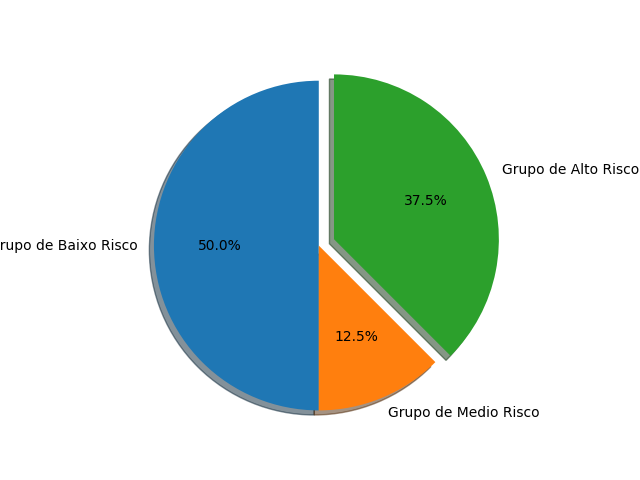
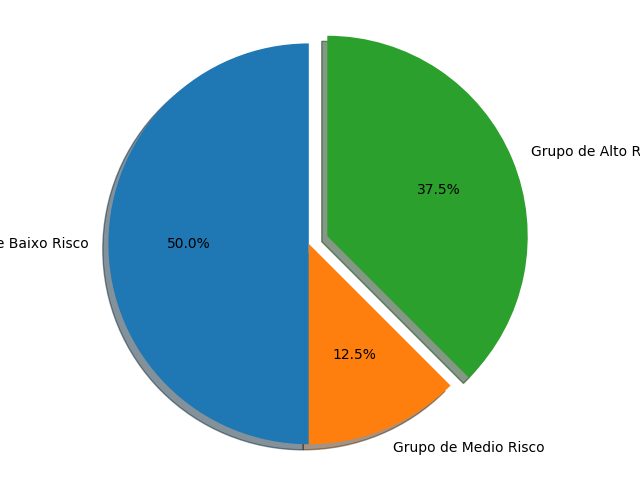
Image view to show thumbnail in flask-admin

Changed region(s): [[0.0, 0.0625, 1.0, 0.9375], [0.625, 0.375, 0.7188, 0.4375]]

diff --git a/testeimagens.py b/testeimagens.py
@@ -1,0 +1,111 @@
+
+import os
+from flask import Flask, url_for, request, jsonify
+from flask.ext.admin import Admin
+from flask_admin.contrib.sqla import ModelView
+from flask_admin import form
+from flask.ext.sqlalchemy import SQLAlchemy
+from jinja2 import Markup
+
+basedir = os.path.abspath(os.path.dirname(__file__))
+file_path = os.path.join(basedir, 'static')
+database_path = os.path.join(basedir, 'data-dev.sqlite')
+
+app = Flask(__name__, static_folder='static')
+app.config['SECRET_KEY'] = 'my secret key'
+app.config['SQLALCHEMY_DATABASE_URI'] = 'postgresql://postgres:postgres@localhost/postgres'
+
+db = SQLAlchemy(app)
+admin = Admin(app)
+
+
+class User(db.Model):
+    id = db.Column(db.Integer, primary_key=True)
+    username = db.Column(db.String(64), unique=True)
+    image_id = db.Column(db.Integer, db.ForeignKey('image.id'))
+    image = db.relationship('Image')
+
+
+class Image(db.Model):
+    id = db.Column(db.Integer, primary_key=True)
+    name = db.Column(db.String(128))
+    path = db.Column(db.String, unique=True)
+
+    def __repr__(self):
+        return self.name
+
+
+class UserView(ModelView):
+    def _list_thumbnail(view, context, model, name):
+        if not model.image or not model.image.path:
+            return ''
+
+        return Markup(
+            '<img src="%s">' %
+            url_for('static',
+                    filename=form.thumbgen_filename(model.image.path))
+        )
+
+    column_formatters = {
+        'image': _list_thumbnail
+    }
+
+    edit_template = 'edit_user.html'
+
+
+class ImageView(ModelView):
+    def _list_thumbnail(view, context, model, name):
+        if not model.path:
+            return ''
+
+        return Markup(
+            '<img src="%s">' %
+            url_for('static',
+                    filename=form.thumbgen_filename(model.path))
+        )
+
+    column_formatters = {
+        'path': _list_thumbnail
+    }
+
+    form_extra_fields = {
+        'path': form.ImageUploadField(
+            'Image', base_path=file_path, thumbnail_size=(100, 100, True))
+    }
+
+
+admin.add_view(UserView(User, db.session))
+admin.add_view(ImageView(Image, db.session))
+
+
+@app.route('/')
+def index():
+    return 'Hello World'
+
+
+@app.route('/_image-url')
+def _get_image_url():
+    img_id = request.args.get('img_id')
+    img = Image.query.get(img_id)
+    if img is None:
+        response = jsonify(status='not found')
+        return response
+    return jsonify(img_path=img.path, status='ok')
+
+
+def build_sample_db():
+    db.drop_all()
+    db.create_all()
+
+    usernames = ['oneuser', 'anotheruser']
+    for u in usernames:
+        user = User()
+        user.username = u
+        db.session.add(user)
+
+    db.session.commit()
+
+
+if __name__ == '__main__':
+    build_sample_db()
+    app.run(debug=True)

diff --git a/apiserver.py b/apiserver.py
@@ -26,8 +26,14 @@ from flask_admin.contrib.fileadmin import FileAdmin
 from flask_admin import BaseView, expose
 from jinja2 import Markup
 from flask import url_for
+from flask_admin import form
+import os
+from dbmodel import Image
 
-usuario = "Doidoteste"
+basedir = os.path.abspath(os.path.dirname(__file__))
+file_path = os.path.join(basedir, 'static')
+
+
 
 class LoginForm(FlaskForm):
 	username = StringField('username', validators=[InputRequired(), Length(min=4, max=15)])
@@ -71,6 +77,40 @@ def get_machine_graph():
 
 
 
+class ImageView(ModelView):
+    def _list_thumbnail(view, context, model, name):
+        if not model.path:
+            return ''
+
+        return Markup(
+            '<img src="%s">' %
+            url_for('static',
+                    filename=form.thumbgen_filename(model.path))
+        )
+
+    column_formatters = {
+        'path': _list_thumbnail
+    }
+
+    form_extra_fields = {
+        'path': form.ImageUploadField(
+            'Image', base_path=file_path, thumbnail_size=(100, 100, True))
+    }
+
+admin.add_view(ImageView(Image, session))
+
+
+@app.route('/_image-url')
+def _get_image_url():
+    img_id = request.args.get('img_id')
+    img = Image.query.get(img_id)
+    if img is None:
+        response = jsonify(status='not found')
+        return response
+    return jsonify(img_path=img.path, status='ok')
+
+
+
 @app.teardown_request
 def app_teardown(response_or_exc):
     # Assuming that `session` is your scoped session 
@@ -103,7 +143,6 @@ admin.add_view(MyModelView(Machine, session,editable_columns=['ip', 'nome', 'com
 admin.add_view(MyModelView(Compliance_attr, session))
 admin.add_view(MyModelView(BossHelper, session))
 admin.add_view(NotificationsView(name='Notifications', endpoint='notify'))
-admin.add_view(MyModelView(Graphics, session))
 
 
 

diff --git a/graphsauxiliary.py b/graphsauxiliary.py
@@ -8,6 +8,8 @@ import os
 import matplotlib.pyplot as plt
 import matplotlib.patches as mpatches
 from time import sleep
+from matplotlib import rcParams
+rcParams.update({'figure.autolayout': True})
 
 
 machinehandler = auxiliary.machine_handler()
@@ -34,6 +36,7 @@ def Generate_positive_attr():
 		plt.ylabel('Number of machines')
 		legenda = mpatches.Patch(color='blue', label='X = MachineID')
 		plt.legend(handles=[legenda])
+		plt.tight_layout()
 		plt.savefig('positive_attr')
 
 
@@ -56,6 +59,7 @@ def Generate_safe_pie():
 	fig1, ax1 = plt.subplots()
 	ax1.pie(sizes, explode=explode, labels=labels, autopct='%1.1f', shadow=True, startangle=90)
 	ax1.axis('equal')
+	plt.tight_layout()
 	plt.savefig('safe_pie')
 
 
@@ -75,6 +79,7 @@ def Generate_severity_plot():
 		plt.xticks(y)
 		plt.ylabel("Severity degree")
 		plt.xlabel("Machine ID")
+		plt.tight_layout()
 		plt.savefig('severity_plot')
 
 
@@ -101,6 +106,7 @@ def Generate_pie_severity():
 	fig1, ax1 = plt.subplots()
 	ax1.pie(sizes, explode=explode, labels=labels, autopct='%1.1f%%', shadow=True, startangle=90)
 	ax1.axis('equal')
+	plt.tight_layout()
 	plt.savefig('pie_severity')
 
 

diff --git a/dbmodel.py b/dbmodel.py
@@ -11,8 +11,25 @@ from sqlalchemy.sql import func
 from jinja2 import Markup
 #from flask.ext.login import UserMixin
 #from flask_login import UserMixin
+import os
+from flask.ext.admin import Admin
+from flask_admin.contrib.sqla import ModelView
 
+
+
+basedir = os.path.abspath(os.path.dirname(__file__))
+file_path = os.path.join(basedir, 'static')
 Base = declarative_base()
+
+
+class Image(Base):
+    __tablename__ = "image"
+    id = Column(Integer, primary_key=True)
+    name = Column(String(128))
+    path = Column(String, unique=True)
+
+    def __repr__(self):
+        return self.name
 
 class Graphics(Base):
 
